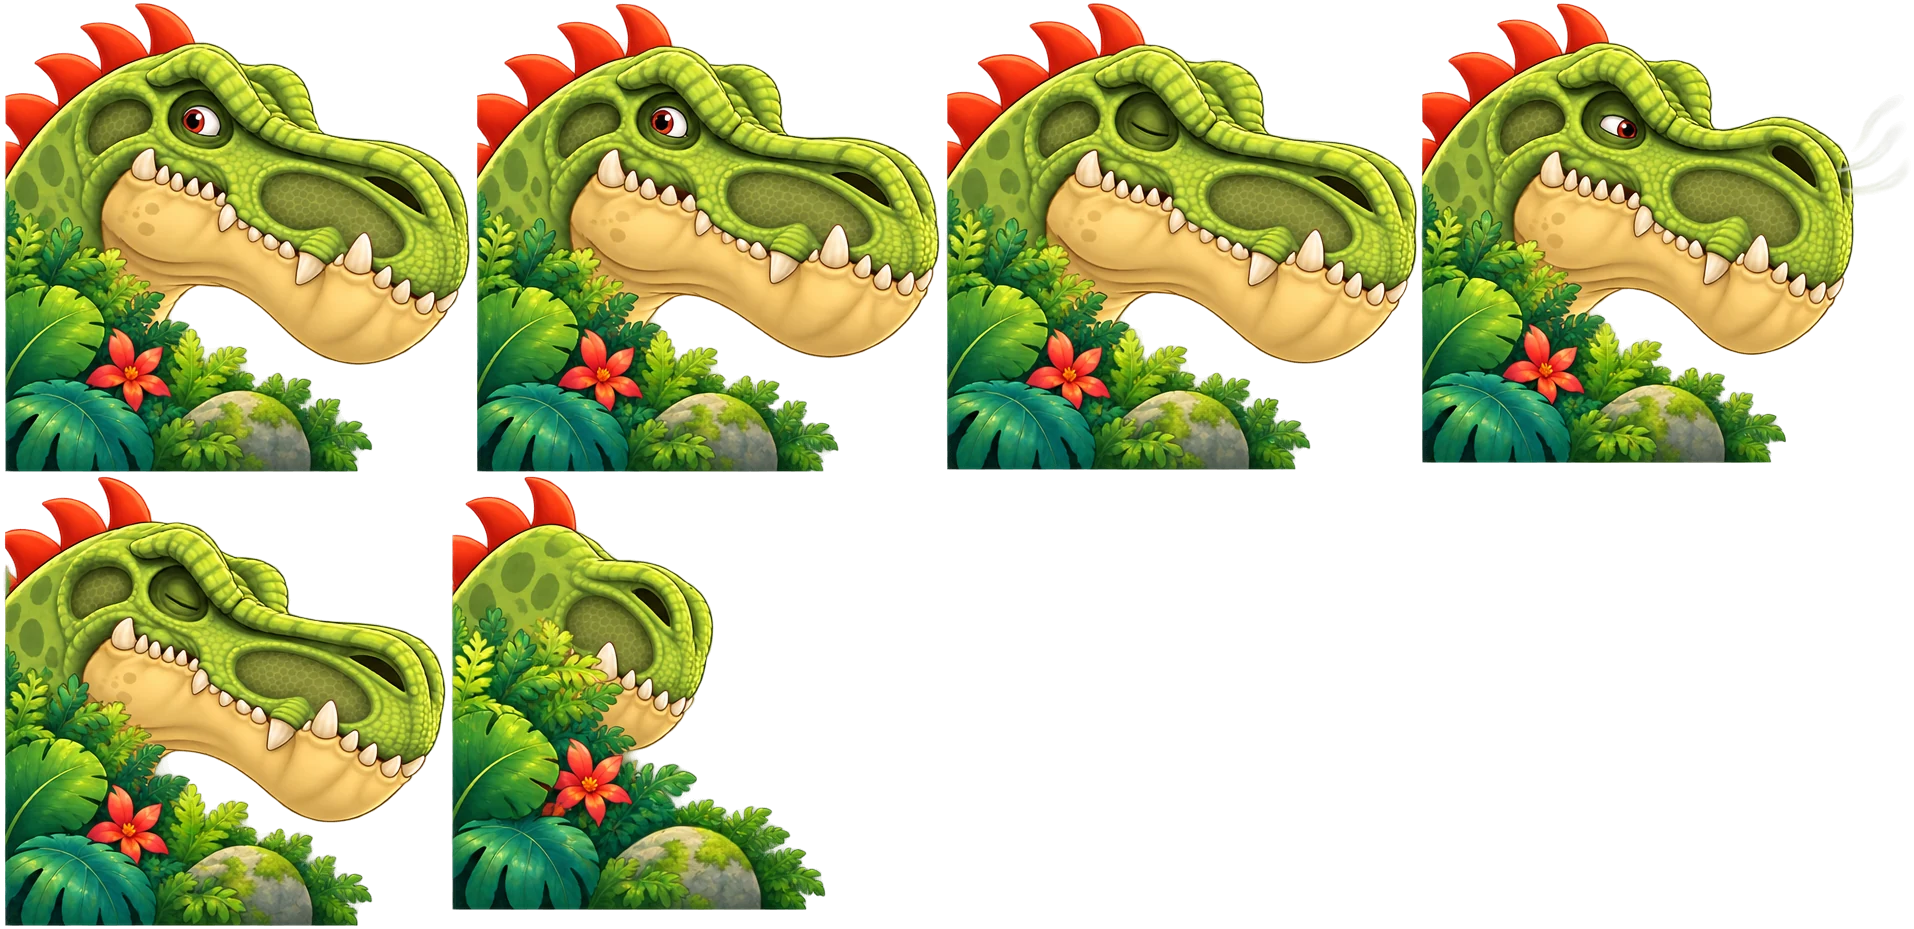
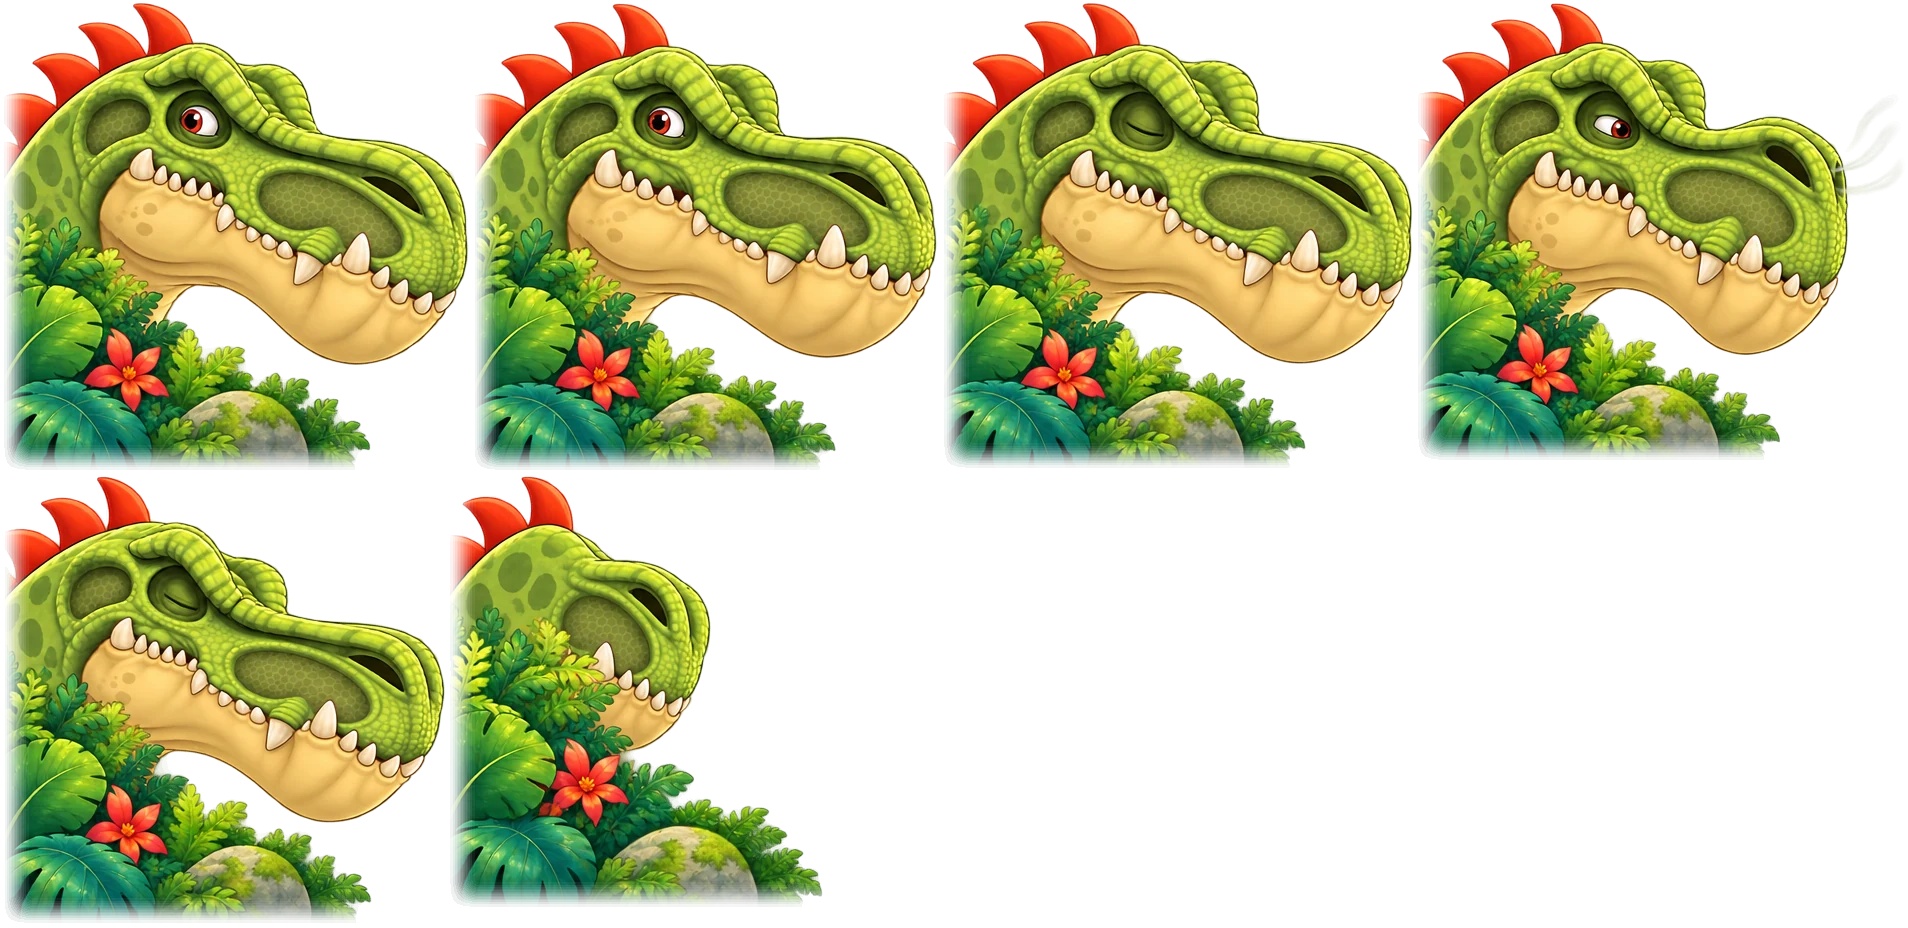
Opening: hide the straight cut on Giganto's peek
The peek cells are cut straight on the left and bottom, and the sprite sat
at the screen edge, so the cut showed along his side. The extractor now
fades those edges and records where the cut is; the peek rests so the cut
and most of its fade stay beyond the screen edges through the slide, the
sniffing bob and the footstep shake.

diff --git a/src/game/opening.ts b/src/game/opening.ts
@@ -20,7 +20,7 @@ import type { CharacterActor } from './actor';
 import { ASSETS, assetUrl, baseHidden } from './assets';
 import { popUp } from './motion';
 import type { OpeningMode } from '../app/controller';
-import type { Rect } from '../platform/layout';
+import { peekRest, type Rect } from '../platform/layout';
 
 export type OpeningStep = 'curtains' | 'sign' | 'sprout' | 'finish';
 
@@ -214,21 +214,25 @@ export class OpeningDirector {
 
   /**
    * Giganto leans in over the bottom-left plants (where he will stand up a
-   * moment later): in, sniff, look, grin, blink, and back down. The cell's
-   * flat bottom edge stays below the screen.
+   * moment later): in, sniff, look, grin, blink, and back down. The cell is
+   * cut straight on its left and bottom; those edges fade out (tools/art/v3.py)
+   * and stay beyond the screen edges the whole time, sniffing bob included
+   * (peekRest), so he seems to lean in from the jungle, not from a picture.
    */
   private gigantoPeek(): void {
     if (!this.scene.textures.exists(KEYS.peek)) return;
     const vh = this.host.vh();
-    const frames = ASSETS.intro.gigantoPeek.frames;
+    const peek = ASSETS.intro.gigantoPeek;
+    const frames = peek.frames;
     const size = Math.min(vh * 0.46, 380);
-    const s = this.keep(this.scene.add.sprite(0, vh + size * 0.04, KEYS.peek, frames[0]).setOrigin(0, 1).setDepth(this.host.depth.peek));
-    const scale = size / ASSETS.intro.gigantoPeek.frameSize;
-    s.setScale(scale).setX(-size * 0.6);
-    this.scene.tweens.add({ targets: s, x: 0, duration: 420, ease: 'Sine.easeOut' });
+    const lift = size * 0.02;
+    const rest = peekRest(vh, size, peek.cut ?? { left: 0, bottom: 1, band: 0 }, lift);
+    const s = this.keep(this.scene.add.sprite(0, rest.y, KEYS.peek, frames[0]).setOrigin(0, 1).setDepth(this.host.depth.peek));
+    s.setScale(size / peek.frameSize).setX(rest.x - size * 0.6);
+    this.scene.tweens.add({ targets: s, x: rest.x, duration: 420, ease: 'Sine.easeOut' });
     const beats: Array<[number, number]> = [[0, 0], [260, 1], [560, 2], [900, 3], [1180, 4], [1480, 5], [1600, 4]];
     for (const [t, f] of beats) this.at(t, () => s.active && s.setFrame(frames[f] as string));
-    this.at(560, () => this.scene.tweens.add({ targets: s, y: s.y - size * 0.02, duration: 140, yoyo: true, repeat: 1 }));
+    this.at(560, () => this.scene.tweens.add({ targets: s, y: rest.y - lift, duration: 140, yoyo: true, repeat: 1 }));
     this.at(1850, () => this.scene.tweens.add({ targets: s, y: vh + size * 1.05, duration: 380, ease: 'Sine.easeIn', onComplete: () => s.destroy() }));
   }
 

diff --git a/tests/e2e/game.spec.ts b/tests/e2e/game.spec.ts
@@ -611,6 +611,38 @@ test.describe('opening animation and V3 characters (14 October 2026)', () => {
     for (const [id, px] of Object.entries(below)) expect(px, id).toBeGreaterThanOrEqual(0);
   });
 
+  test("Giganto's peek never shows the cell's straight left or bottom cut", async ({ page }) => {
+    // Every frame: the peek's cut edges in CSS px against the screen edges (camera shake included).
+    await page.addInitScript(() => {
+      const w = window as never as { __peek: { left: number; bottom: number; seen: number }; __dino?: { game: { scene: { getScene(k: string): unknown } } } };
+      w.__peek = { left: -Infinity, bottom: Infinity, seen: 0 };
+      const tick = (): void => {
+        const g = w.__dino?.game.scene.getScene('game') as
+          | { opening?: { objects: Array<{ texture?: { key: string }; active: boolean; x: number; y: number; scaleX: number; scaleY: number }> } | null; vh: number; cameras: { main: { zoom: number; shakeEffect: { isRunning: boolean; _offsetX: number; _offsetY: number } } } }
+          | undefined;
+        const peek = g?.opening?.objects.find((o) => o.active && o.texture?.key === 'intro-peek');
+        if (g && peek) {
+          const cut = { left: 0.0176, bottom: 0.9707 };
+          // The shake moves the picture in canvas pixels (CSS px × zoom).
+          const { shakeEffect: sh, zoom } = g.cameras.main;
+          const dx = sh.isRunning ? sh._offsetX / zoom : 0;
+          const dy = sh.isRunning ? sh._offsetY / zoom : 0;
+          w.__peek.left = Math.max(w.__peek.left, peek.x + cut.left * 512 * peek.scaleX + dx);
+          w.__peek.bottom = Math.min(w.__peek.bottom, peek.y - (1 - cut.bottom) * 512 * peek.scaleY + dy - g.vh);
+          w.__peek.seen++;
+        }
+        requestAnimationFrame(tick);
+      };
+      requestAnimationFrame(tick);
+    });
+    await boot(page, '?test&opening=full');
+    await page.waitForFunction(() => (window as never as { __dino: { ctrl: { state: { opening: string | null } } } }).__dino.ctrl.state.opening === null, null, { timeout: 25_000 });
+    const peek = await page.evaluate(() => (window as never as { __peek: { left: number; bottom: number; seen: number } }).__peek);
+    expect(peek.seen).toBeGreaterThan(10);
+    expect(peek.left, 'left cut stays left of the screen').toBeLessThan(0);
+    expect(peek.bottom, 'bottom cut stays below the screen').toBeGreaterThan(0);
+  });
+
   test('a tap skips the opening at once; a key does too', async ({ page }) => {
     await boot(page, '?test&opening=full');
     await page.waitForTimeout(900);

diff --git a/tests/domain/layout.test.ts b/tests/domain/layout.test.ts
@@ -1,8 +1,8 @@
 import { describe, expect, it } from 'vitest';
-import { FRIEND_CORNER, FRIEND_SIZE, MIN_CONTROL_PX, MIN_CORRIDOR_PX, castSlots, clusterSpec, computeLayout, fitGrid, introLayout, toLogical, toScreen, type Layout, type Rect } from '../../src/platform/layout';
+import { FRIEND_CORNER, FRIEND_SIZE, MIN_CONTROL_PX, MIN_CORRIDOR_PX, castSlots, clusterSpec, computeLayout, fitGrid, introLayout, peekRest, toLogical, toScreen, type Layout, type Rect } from '../../src/platform/layout';
 import type { Difficulty } from '../../src/domain/types';
 import { CORRIDOR_RADIUS, ENTRANCE_REACH, FRAME_MARGIN, LEVELS, entranceAxes } from '../../src/domain/maze';
-import { FACING, friendFrame } from '../../src/game/assets';
+import { ASSETS, FACING, friendFrame } from '../../src/game/assets';
 import type { GridSpec, Side } from '../../src/domain/types';
 
 const VIEWPORTS: Array<[number, number]> = [
@@ -220,6 +220,25 @@ describe('layout', () => {
         expect(L.character.x).toBeLessThan(L.board.x);
         expect(L.reset.x).toBeGreaterThan(L.board.x + L.board.w);
       }
+    }
+  });
+});
+
+describe("the opening's Giganto peek", () => {
+  it('keeps its straight left and bottom cuts beyond the screen edges, sniffing bob included', () => {
+    const cut = ASSETS.intro.gigantoPeek.cut!;
+    expect(cut.left).toBeGreaterThan(0);
+    expect(cut.bottom).toBeLessThan(1);
+    for (const vh of [375, 600, 768, 820, 1024]) {
+      const size = Math.min(vh * 0.46, 380);
+      const lift = size * 0.02;
+      const rest = peekRest(vh, size, cut, lift);
+      // The left cut sits left of the screen, with most of its fade.
+      expect(rest.x + cut.left * size).toBeLessThanOrEqual(-0.6 * cut.band * size);
+      // The bottom cut stays below the screen even at the top of the bob.
+      expect(rest.y - lift - (1 - cut.bottom) * size).toBeGreaterThanOrEqual(vh + 0.6 * cut.band * size);
+      // Giganto himself is still well in view (no more than a tenth of the cell hidden on the left).
+      expect(-rest.x).toBeLessThan(size * 0.1);
     }
   });
 });

diff --git a/src/game/assets.ts b/src/game/assets.ts
@@ -4,7 +4,7 @@
  */
 import manifestJson from '../data/assetManifest.json';
 import type { CharacterId, TreasureId } from '../domain/types';
-import { FRIEND_SIZE, type FriendFrame } from '../platform/layout';
+import { FRIEND_SIZE, type CellCut, type FriendFrame } from '../platform/layout';
 import type { RigAsset } from './rigData';
 
 export type Reaction = 'idle' | 'drawing' | 'encouragement' | 'celebration' | 'talk';
@@ -49,7 +49,8 @@ export interface IntroAssets {
   curtainLeft: ItemAsset;
   curtainRight: ItemAsset;
   lightShafts: ItemAsset;
-  gigantoPeek: AtlasAsset & { frames: string[]; frameSize: number };
+  /** `cut`: the cell's straight left and bottom edges and their fade (tools/art/v3.py). */
+  gigantoPeek: AtlasAsset & { frames: string[]; frameSize: number; cut?: CellCut };
   popups: AtlasAsset & { cellSize: number };
   dust: AtlasAsset & { frames: string[] };
   sprout: { stages: string[]; width: number; height: number; soil: { x: number; y: number } };

diff --git a/src/platform/layout.ts b/src/platform/layout.ts
@@ -442,3 +442,21 @@ export function castSlots(vw: number, vh: number, items: Array<{ aspect: number;
   });
   return out;
 }
+
+/** Where a painted cell is cut straight (fractions of the cell) and how wide its fade is. */
+export interface CellCut {
+  left: number;
+  bottom: number;
+  band: number;
+}
+
+/**
+ * Resting place of the opening's Giganto peek (a `size` px cell, origin at its
+ * bottom-left corner): its straight left and bottom cuts, and most of their
+ * fade, stay beyond the screen's left and bottom edges, even at the top of
+ * its `lift` (the little bob while it sniffs).
+ */
+export function peekRest(vh: number, size: number, cut: CellCut, lift: number): { x: number; y: number } {
+  const hidden = 0.7 * cut.band;
+  return { x: -(cut.left + hidden) * size, y: vh + (1 - cut.bottom + hidden) * size + lift };
+}

diff --git a/tools/art/v3.py b/tools/art/v3.py
@@ -41,6 +41,9 @@ PAD = 2
 # the game sinks that band below the screen edge at rest; if a hop or a camera
 # shake ever lifts the base into view, it dissolves instead of showing a line.
 CUT_FADE = 0.03
+# The opening's Giganto peek is cut straight on its left and bottom: those edges
+# fade out over this share of the 512 cell.
+PEEK_FADE = 0.06
 CHAR_IDS = ["bill", "tiny", "mazu", "rocky", "giganto"]
 SEQ = {
     "idle": [f"idle-{i:02d}" for i in range(0, 8)],
@@ -300,16 +303,42 @@ def process_intro(src_root: str, public_root: str, measurements_path: str, cell_
     path = os.path.join(out_dir, "light-shafts.webp")
     m["lightShafts"] = {"image": rel(path), "width": im.width, "height": im.height, "bytes": _save_webp(im, path, 80)}
 
-    # Giganto peek: six 512 cells, packed trimmed on the shared 512 canvas.
+    # Giganto peek: six 512 cells, packed trimmed on the shared 512 canvas. The
+    # painted cell is cut straight on its left and bottom (a little inside the
+    # canvas): those edges fade out over PEEK_FADE of the canvas, measured on the
+    # union of all cells so the fade never moves, and the game keeps them
+    # beyond the screen edge (opening.ts, peekRest in layout.ts).
     peek_src = src("intro-giganto-peek")
-    peek_cells = _cells(peek_src, [c["rect"] for c in meas["intro-giganto-peek"]["cells"]])
+    peek_cells = [_floor_alpha(np.array(c)) for c in _cells(peek_src, [c["rect"] for c in meas["intro-giganto-peek"]["cells"]])]
+    union = np.max(np.stack([c[:, :, 3] for c in peek_cells]), axis=0)
+    cols = np.nonzero((union >= 40).any(axis=0))[0]
+    rows = np.nonzero((union >= 40).any(axis=1))[0]
+    cut_left, cut_bottom = int(cols.min()), int(rows.max()) + 1
+    size = peek_cells[0].shape[0]
+    band = round(size * PEEK_FADE)
     packed = []
-    for i, cell in enumerate(peek_cells):
-        cell = Image.fromarray(_floor_alpha(np.array(cell)))
+    for i, arr in enumerate(peek_cells):
+        a = arr.astype(np.float32)
+        h, w = a.shape[:2]
+        ux = np.clip((np.arange(w) + 0.5 - cut_left) / band, 0, 1)
+        uy = np.clip((cut_bottom - np.arange(h) - 0.5) / band, 0, 1)
+        k = (ux * ux * (3 - 2 * ux))[None, :] * (uy * uy * (3 - 2 * uy))[:, None]
+        a[:, :, 3] *= k
+        out = np.clip(np.rint(a), 0, 255).astype(np.uint8)
+        out[out[:, :, 3] == 0, :3] = 0
+        cell = Image.fromarray(out)
         t, sss = _trim(cell)
         packed.append((f"peek-{i}", t, sss, cell.size))
     info = pack_atlas(packed, out_dir, "giganto-peek", public_root, quality=88)
-    m["gigantoPeek"] = {"atlas": info["json"], "frames": [f"peek-{i}" for i in range(6)], "frameSize": 512, "bytes": info["bytes"], "decodedBytes": info["decodedBytes"]}
+    m["gigantoPeek"] = {
+        "atlas": info["json"],
+        "frames": [f"peek-{i}" for i in range(6)],
+        "frameSize": 512,
+        # The straight cut edges as fractions of the cell, and the fade band.
+        "cut": {"left": round(cut_left / size, 4), "bottom": round(cut_bottom / size, 4), "band": round(band / size, 4)},
+        "bytes": info["bytes"],
+        "decodedBytes": info["decodedBytes"],
+    }
 
     # Friend pop-ups: register each pose's bush to the first pose (Codex's
     # bounds-based translations), scale 0.8, one shared atlas.

diff --git a/docs/STATUS.md b/docs/STATUS.md
@@ -52,6 +52,18 @@ tests or screenshots; device checks are still pending as before.
 Measured visible-content boxes per character frame are now part of the asset manifest
 (`content`, `contentActive`, written by `tools/art/extract.py`); only JSON changed when re-run.
 
+## Owner review, round 15 (15 October 2026): Giganto's peek without a cut
+
+In the opening, Giganto leans in from the left after the two footsteps. His peek cells are cut
+straight on the left and bottom, and the sprite sat at the screen edge, so the cut showed as a
+straight line along his side. Now `tools/art/v3.py` fades the cells' left and bottom cut edges
+(smoothstep over 6 % of the cell, `PEEK_FADE`) and records where the cut is (`cut` in the
+manifest); the peek rests so the cut edges and most of their fade stay beyond the screen edges
+the whole time, including the slide in, the sniffing bob and the third footstep's shake
+(`peekRest` in `src/platform/layout.ts`). Giganto shows as before; only about 6 % of the cell is
+moved off screen. Tests: a unit test across five viewport heights, and a browser test that
+follows the peek in every frame of the full opening (shake included) in Chromium and WebKit.
+
 ## Owner review, round 14 (15 October 2026): critters at the screen's edges
 
 The hidden critters on the hedges were hard to see on the detailed hedge texture. They are now
@@ -353,8 +365,8 @@ inside the wall (`closestInCapsule`).
 
 | Suite | Command | Result |
 |---|---|---|
-| Domain unit + property | `npm test` | 238 passed |
-| Browser flows (Chromium + WebKit) | `npm run test:e2e` | 73 passed, 1 skipped (synthetic-touch test is Chromium-only by design) |
+| Domain unit + property | `npm test` | 239 passed |
+| Browser flows (Chromium + WebKit) | `npm run test:e2e` | 75 passed, 1 skipped (synthetic-touch test is Chromium-only by design) |
 | Production build (offline relaunch, painted UI surfaces) | `npm run test:offline` | 2 passed |
 | Types / lint | `npm run typecheck`, `npm run lint` | clean |
 
